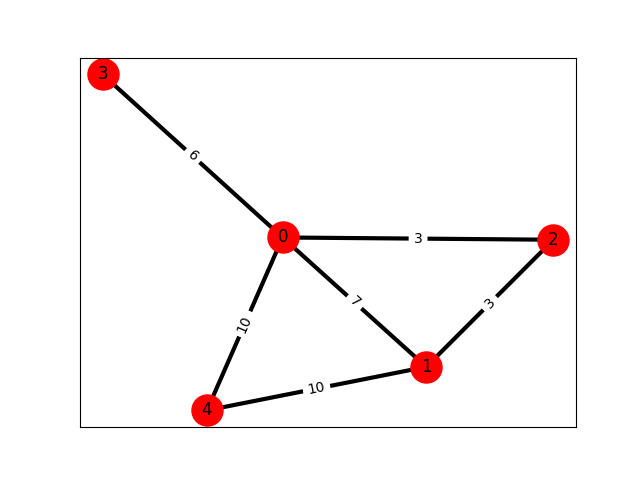
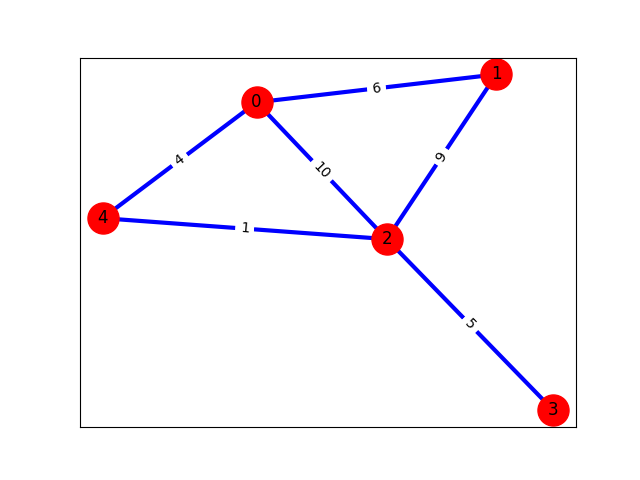
V2.7

diff --git a/sonwindow.py b/sonwindow.py
@@ -53,7 +53,9 @@ class WatchWindows(QtWidgets.QMainWindow):
 		pass
 
 	def btn_click(self):
-		self.map=Map(5,6)
+		n=(int)(self.nodesnum.text().strip())
+		m=(int)(self.edgesnum.text().strip())
+		self.map=Map(n,m)
 
 		for i in range(0,5):
 			if (self.RadioButton[i].isChecked() == True):
@@ -123,10 +125,10 @@ class WatchWindows(QtWidgets.QMainWindow):
 		self.mappic=QLabel()
 		self.right_layout.addWidget(self.mappic,1,6,4,7)
 
-		self.nodenum=QLineEdit()
-		self.nodenum.setPlaceholderText("Nodes sum")
-		self.nodenum.returnPressed.connect(self.empty)
-		self.left_layout.addWidget(self.nodenum,1,0,1,5)
+		self.nodesnum=QLineEdit()
+		self.nodesnum.setPlaceholderText("Nodes sum")
+		self.nodesnum.returnPressed.connect(self.empty)
+		self.left_layout.addWidget(self.nodesnum,1,0,1,5)
 
 		self.edgesnum=QLineEdit()
 		self.edgesnum.setPlaceholderText("Edges sum")
